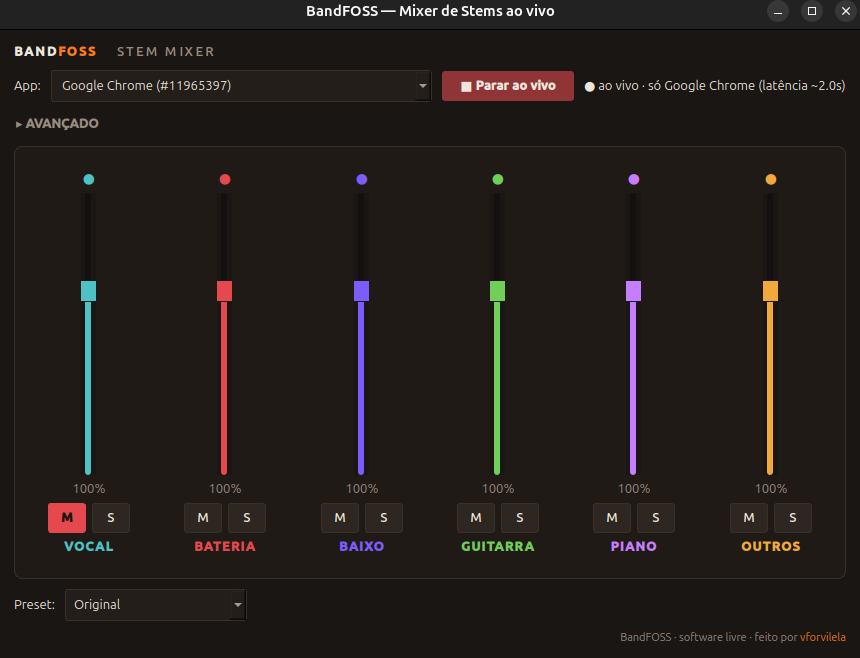
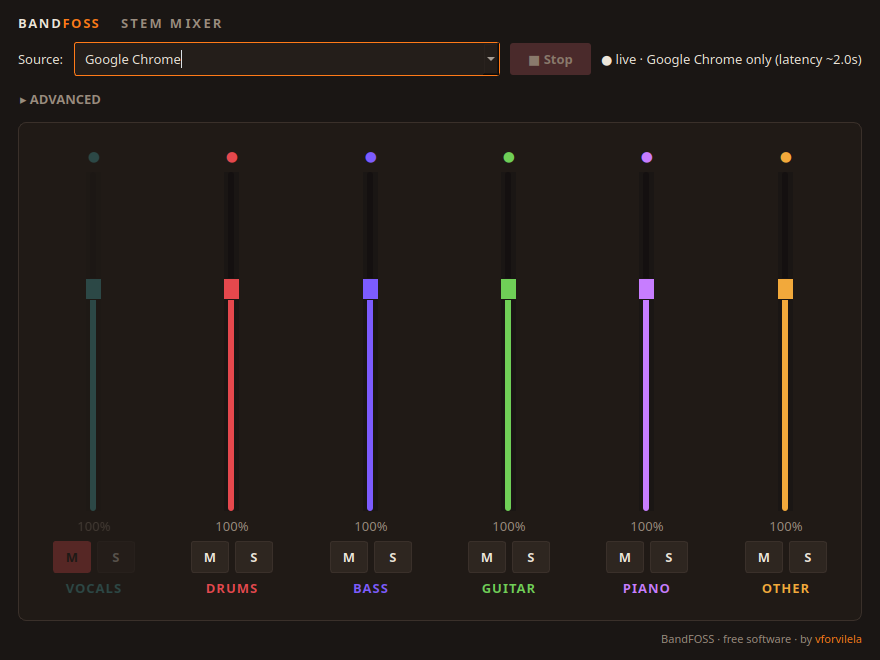
docs: replace screenshot with current English UI
The previous shot was an older Portuguese build with the removed "Preset"
control. This one is the current app: English labels, no presets, live 6-stem
mixer with the mute feedback (vocals muted).

diff --git a/README.md b/README.md
@@ -4,7 +4,7 @@
 
 <p align="center">
   <img src="docs/screenshot.png"
-       alt="BandFOSS splitting a live YouTube Music stream into six stems with per-stem faders and mute/solo"
+       alt="BandFOSS live mixer: six stem faders (vocals, drums, bass, guitar, piano, other) with mute/solo, vocals muted"
        width="760">
 </p>
 